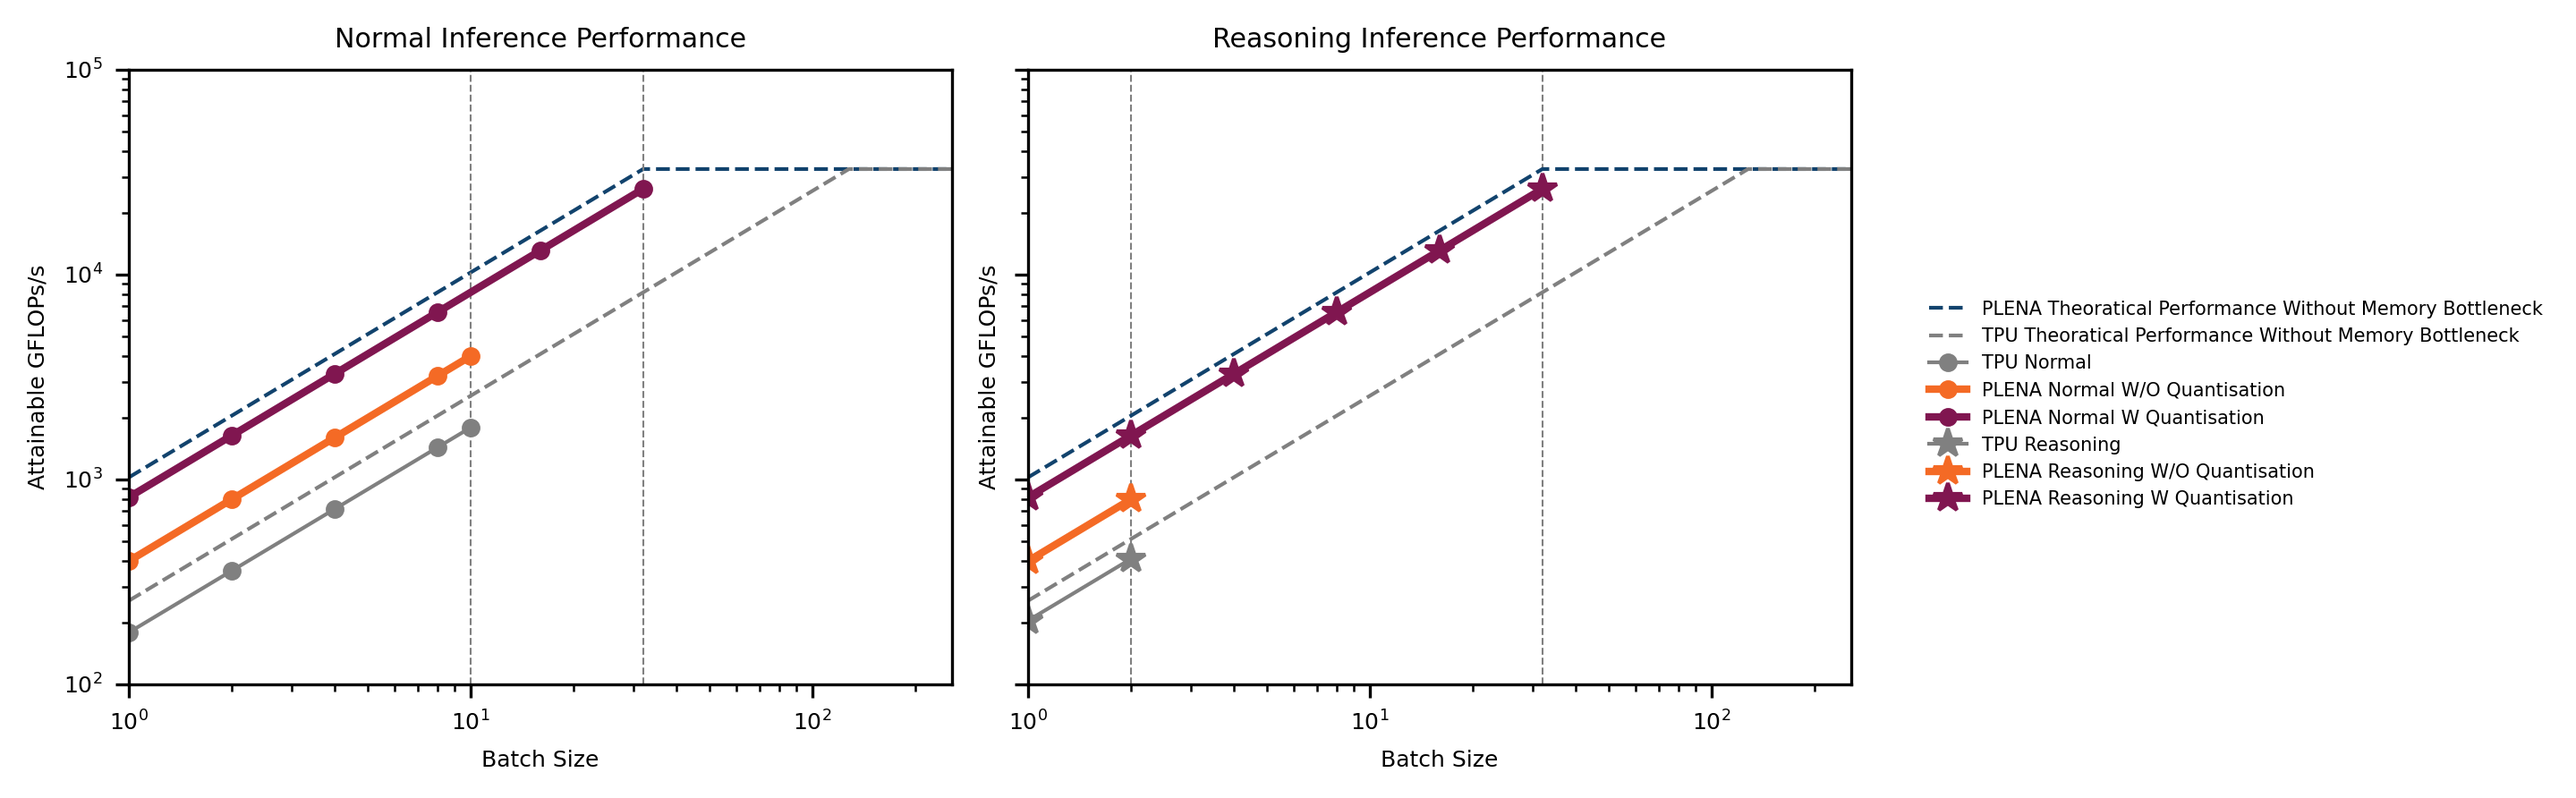
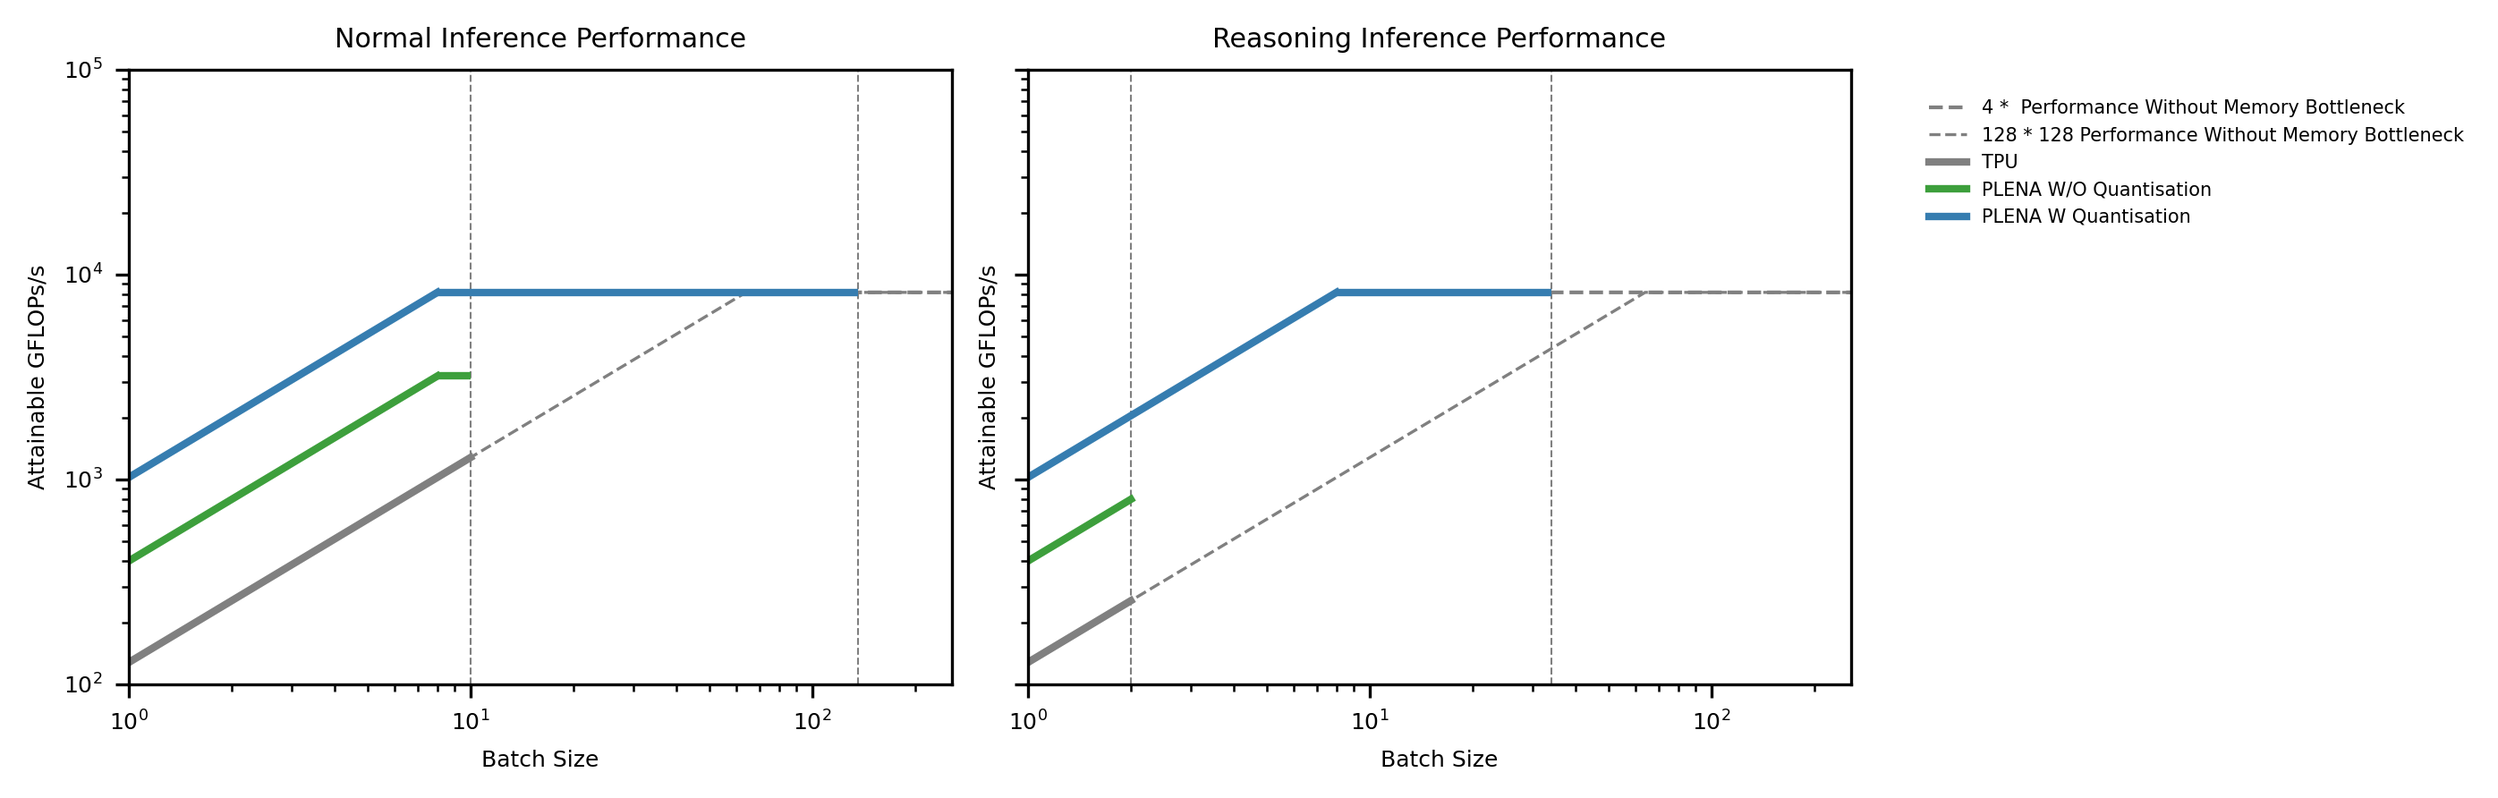
plot tools update

diff --git a/tools/roofline_model/flops_batch_perform_plot.py b/tools/roofline_model/flops_batch_perform_plot.py
@@ -6,15 +6,14 @@ from pathlib import Path
 import os
 
 
-turq = (40, 161, 151)
-darkblue = (18, 67, 109)
-dark_pink = (128, 22, 80)
-orange = (244, 106, 37)
-turq = tuple([i / 255 for i in turq])
-darkblue = tuple([i / 255 for i in darkblue])
-dark_pink = tuple([i / 255 for i in dark_pink])
-orange = tuple([i / 255 for i in orange])
-colors = [darkblue, orange, turq, dark_pink]
+colors = {
+    "turq": tuple(i / 255 for i in (40, 161, 151)),
+    "darkblue": tuple(i / 255 for i in (18, 67, 109)),
+    "dark_pink": tuple(i / 255 for i in (128, 22, 80)),
+    "orange": tuple(i / 255 for i in (244, 106, 37)),
+    "dark_green": tuple(i / 255 for i in (61, 159, 60)),
+    "dark_blue": tuple(i / 255 for i in (54, 125, 176)),
+}
 
 # HBM Settings
 Operate_Freq = 1e9      # 1 GHz
@@ -38,9 +37,9 @@ TPU_Params = {
     "HBM_Capacity": HBM_Capacity,  # HBM 3e
     "HBM_Bandwidth": HBM_Bandwidth,  # 512 GB/s
     "Operate_Freq": 1e9,  # 1 GHz
-    "M" : 128,
-    "K" : 128,
-    "N" : 128,
+    "M" : 64,
+    "K" : 64,
+    "N" : 64,
     "DataWidth": 2  # 1 byte per element
 }
 
@@ -48,9 +47,9 @@ PLENA = {
     "HBM_Capacity": HBM_Capacity,  # HBM 3e
     "HBM_Bandwidth": HBM_Bandwidth,  # 512 GB/s
     "Operate_Freq": 1e9,  # 1 GHz
-    "M" : 32,
+    "M" : 8,
     "K" : 512,
-    "N" : 32,
+    "N" : 8,
     "DataWidth": 2  # 1 byte per element
 }
 
@@ -132,7 +131,7 @@ def device_performance(device_model, seq_context_length, max_batch, model_config
         actual_performance[batch] = min(compute_intensity, max_tflops)
 
 
-    return roofline_performance, actual_performance, min(batch_bound, device_model.M)
+    return roofline_performance, actual_performance, batch_bound
 
 
 if __name__ == "__main__":
@@ -150,7 +149,7 @@ if __name__ == "__main__":
     soft_optimised_plena_model = DeviceModel(operate_freq=PLENA["Operate_Freq"], M=PLENA["M"], K=PLENA["K"], N=TPU_Params["N"], data_width= PLENA["DataWidth"] / 3, hbm_bandwidth=PLENA["HBM_Bandwidth"], hbm_capacity=PLENA["HBM_Capacity"])
 
     tpu_roofline_performance, tpu_actual_performance_normal, tpu_normal_batch_bound = device_performance(tpu_model, SEQ_LENGTH_NORM, 256, model_config)
-    _, tpu_actual_performance_reasoning, reasoning_batch_bound = device_performance(tpu_model, SEQ_LENGTH_REASONING, 256, model_config)
+    _, tpu_actual_performance_reasoning, tpu_actual_reasoning_batch_bound = device_performance(tpu_model, SEQ_LENGTH_REASONING, 256, model_config)
 
     plena_roofline_performance, plena_actual_performance_normal, plena_normal_batch_bound = device_performance(plena_model, SEQ_LENGTH_NORM, 256, model_config)
     _, plena_actual_performance_reasoning, plena_reasoning_batch_bound = device_performance(plena_model, SEQ_LENGTH_REASONING, 256, model_config)
@@ -165,46 +164,46 @@ if __name__ == "__main__":
     ax1.set_ylim(1e2, 1e5)
     ax1.set_xlim(1, 256)
     ax1.set_title('Normal Inference Performance')
-
-    ax1.plot(list(plena_roofline_performance.keys()), list(plena_roofline_performance.values()), label='PLENA Theoratical Performance Without Memory Bottleneck', color=colors[0], linewidth=1, linestyle='--')
+    
+    ax1.plot(list(plena_roofline_performance.keys()), list(plena_roofline_performance.values()), label='4 *  Performance Without Memory Bottleneck', color="grey", linewidth=1, linestyle='--')
     ax1.vlines(tpu_normal_batch_bound, 1e2, 1e5, color='grey', linestyle='--', linewidth=0.5)
     ax1.plot(
         list(tpu_roofline_performance.keys()),
         [v for v in tpu_roofline_performance.values()],
-        label='TPU Theoratical Performance Without Memory Bottleneck',
-        linewidth=1, linestyle='--',
+        label='128 * 128 Performance Without Memory Bottleneck',
+        linewidth=0.8, linestyle='--',
         color='grey'
     )
     
     ax1.plot(
         list(tpu_actual_performance_normal.keys()),
-        [v * 0.7 for v in tpu_actual_performance_normal.values()],
-        label='TPU Normal',
-        marker='o',  markersize=4,
+        [v for v in tpu_actual_performance_normal.values()],
+        label='TPU',
         color='grey',
-        linewidth=1
+        linewidth=2
     )
-
 
     ax1.vlines(soft_optimised_normal_batch_bound, 1e2, 1e5, color = 'grey', linestyle='--', linewidth=0.5)
 
     ax1.plot(
         list(plena_actual_performance_normal.keys()),
         [v for v in plena_actual_performance_normal.values()],
-        label='PLENA Normal W/O Quantisation',
-        marker='o',  markersize=4,
-        color=colors[1],
+        label='PLENA W/O Quantisation',
+        color=colors["dark_green"],
         linewidth=2
     )
 
+    ax1.hlines(max(plena_actual_performance_normal.values()), max(plena_actual_performance_normal.keys()), plena_normal_batch_bound, color=colors["dark_green"], linewidth=2)
+
     ax1.plot(
         list(soft_optimised_actual_performance_normal.keys()),
-        [v * 0.8 for v in soft_optimised_actual_performance_normal.values()],
-        label='PLENA Normal W Quantisation',
-        marker='o',  markersize=4,
-        color=colors[3],
+        [v for v in soft_optimised_actual_performance_normal.values()],
+        label='PLENA W Quantisation',
+        color= colors["dark_blue"],
         linewidth=2
     )
+
+    ax1.hlines(max(soft_optimised_actual_performance_normal.values()), max(soft_optimised_actual_performance_normal.keys()), soft_optimised_normal_batch_bound, color=colors["dark_blue"], linewidth=2)
 
 
     # Plot Reasoninng
@@ -218,42 +217,39 @@ if __name__ == "__main__":
     ax2.vlines(plena_reasoning_batch_bound, 1e2, 1e5, color='grey', linestyle='--', linewidth=0.5)
     ax2.vlines(soft_optimised_reasoning_batch_bound, 1e2, 1e5, color='grey', linestyle='--', linewidth=0.5)
 
-    ax2.plot(list(plena_roofline_performance.keys()), list(plena_roofline_performance.values()), label='PLENA Theoratical Performance Without Memory Bottleneck', color=colors[0], linewidth=1, linestyle='--')
+    ax2.plot(list(plena_roofline_performance.keys()), list(plena_roofline_performance.values()), color="grey", linewidth=1, linestyle='--')
     
     ax2.plot(
         list(tpu_roofline_performance.keys()),
         [v for v in tpu_roofline_performance.values()],
-        label='TPU Theoratical Performance Without Memory Bottleneck',
-        linewidth=1, linestyle='--',
+        linewidth=0.8, linestyle='--',
         color='grey'
     )
     
     ax2.plot(
         list(tpu_actual_performance_reasoning.keys()),
-        [v * 0.8 for v in tpu_actual_performance_reasoning.values()],
-        label='TPU Reasoning',
-        marker='*',  markersize=8,
+        [v for v in tpu_actual_performance_reasoning.values()],
         color='grey',
-        linewidth=1
+        linewidth=2
     )
     
     ax2.plot(
         list(plena_actual_performance_reasoning.keys()),
         [v for v in plena_actual_performance_reasoning.values()],
-        label='PLENA Reasoning W/O Quantisation',
-        marker='*',  markersize=8,
-        color=colors[1],
+        color=colors["dark_green"],
         linewidth=2
     )
 
+    ax2.hlines(max(plena_actual_performance_reasoning.values()), max(plena_actual_performance_reasoning.keys()), plena_reasoning_batch_bound, color=colors["dark_green"], linewidth=2)
+
     ax2.plot(
         list(soft_optimised_actual_performance_reasoning.keys()),
-        [0.8 * v for v in soft_optimised_actual_performance_reasoning.values()],
-        label='PLENA Reasoning W Quantisation',
-        marker='*',  markersize=8,
-        color=colors[3],
+        [ v for v in soft_optimised_actual_performance_reasoning.values()],
+        color=colors["dark_blue"],
         linewidth=2
     )
+
+    ax2.hlines(max(soft_optimised_actual_performance_reasoning.values()), max(soft_optimised_actual_performance_reasoning.keys()), soft_optimised_reasoning_batch_bound, color=colors["dark_blue"], linewidth=2)
 
     from collections import OrderedDict
 
@@ -274,7 +270,7 @@ if __name__ == "__main__":
 
     fig.legend(legend_dict.values(), legend_dict.keys(),
             loc='center left',
-            bbox_to_anchor=(1.02, 0.5),  # Push to the right of both axes
+            bbox_to_anchor=(1.02, 0.8),  # Push to the right of both axes
             fontsize=5, frameon=False)
 
     # Adjust space so plots don't overlap with the legend
